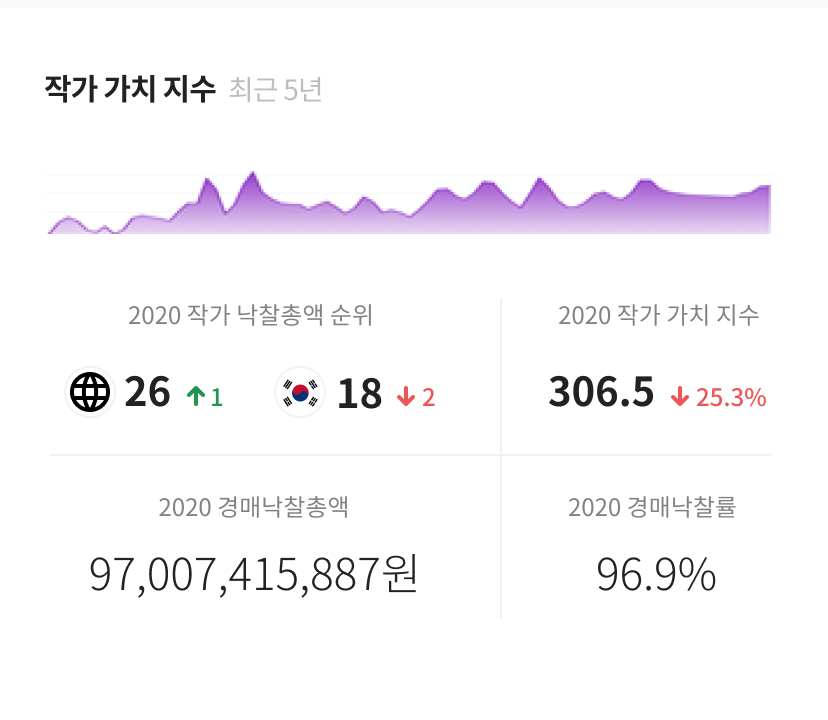
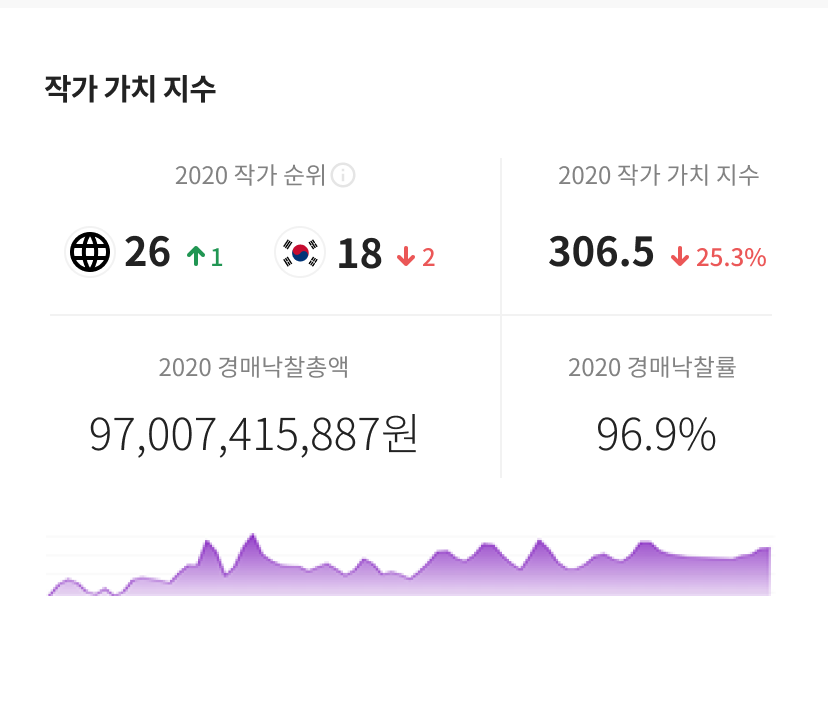
chart_html

diff --git a/chart/css/style.scss b/chart/css/style.scss
@@ -117,7 +117,7 @@ body {
       position: relative;
       height: 360px;
       width: 100%;
-      padding-top: 65px;
+      padding-top: 252px;
       @include overlap-image(transparant,'../images/bg_02_bottom.png',414px,360px);
       .highcharts-figure-2 {
         height: 76px;

diff --git a/chart/css/style.css b/chart/css/style.css
@@ -150,7 +150,7 @@ body {
   position: relative;
   height: 360px;
   width: 100%;
-  padding-top: 65px;
+  padding-top: 252px;
 }
 .outer-frame .moving .figure-container-2:before {
   content: " ";
